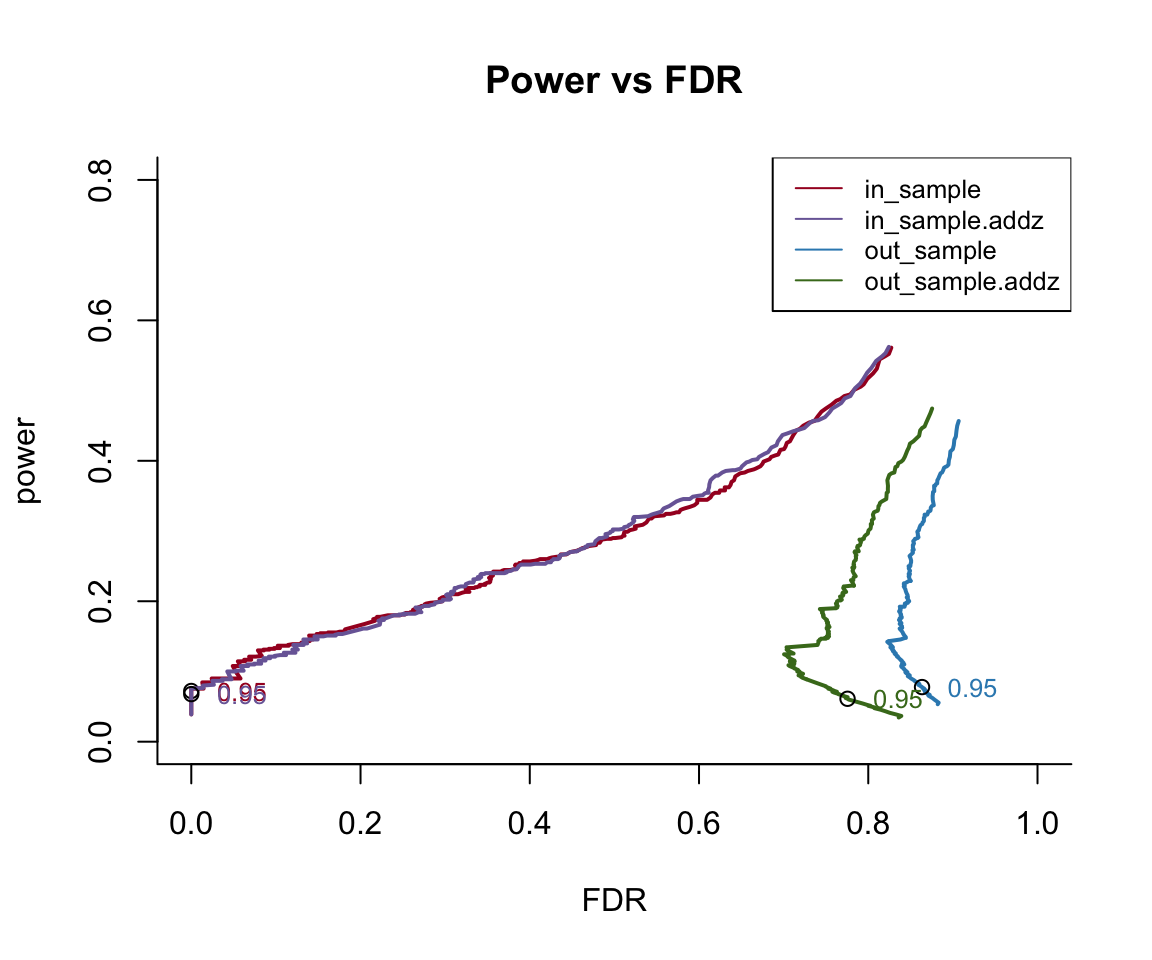
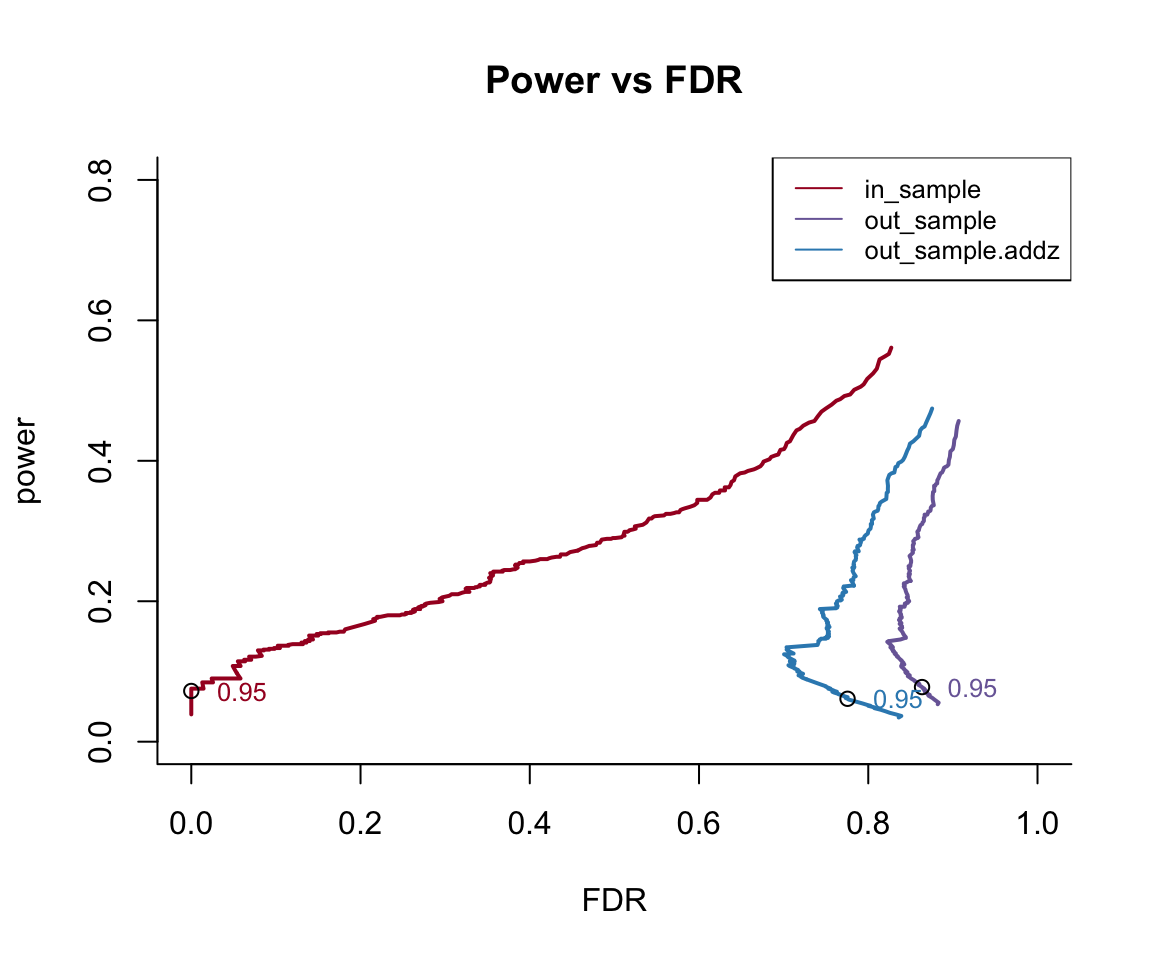
Build site.

diff --git a/docs/r_compare_add_z_lambda_caviar_FINEMAP_ROC.html b/docs/r_compare_add_z_lambda_caviar_FINEMAP_ROC.html
@@ -456,7 +456,7 @@ div.section {
 <div class="tab-content">
 <div id="summary" class="tab-pane fade in active">
 <p>
-<strong>Last updated:</strong> 2019-05-06
+<strong>Last updated:</strong> 2019-05-07
 </p>
 <p>
 <strong>Checks:</strong> <span class="glyphicon glyphicon-ok text-success" aria-hidden="true"></span> 6 <span class="glyphicon glyphicon-exclamation-sign text-danger" aria-hidden="true"></span> 0
@@ -535,10 +535,10 @@ This reproducible <a href="http://rmarkdown.rstudio.com">R Markdown</a> analysis
 <div class="panel panel-default">
 <div class="panel-heading">
 <p class="panel-title">
-<a data-toggle="collapse" data-parent="#workflowr-checks" href="#strongRepositoryversionstrongahrefhttpsgithubcomzouyuxindscsusieztree592f7feadb70dfd0ce4be6cd524fcea77fbdde76targetblank592f7fea"> <span class="glyphicon glyphicon-ok text-success" aria-hidden="true"></span> <strong>Repository version:</strong> <a href="https://github.com/zouyuxin/dsc-susie-z/tree/592f7feadb70dfd0ce4be6cd524fcea77fbdde76" target="_blank">592f7fe</a> </a>
+<a data-toggle="collapse" data-parent="#workflowr-checks" href="#strongRepositoryversionstrongahrefhttpsgithubcomzouyuxindscsusieztree7344e26759b7bcba9568c688ab64e97b4104a6abtargetblank7344e26a"> <span class="glyphicon glyphicon-ok text-success" aria-hidden="true"></span> <strong>Repository version:</strong> <a href="https://github.com/zouyuxin/dsc-susie-z/tree/7344e26759b7bcba9568c688ab64e97b4104a6ab" target="_blank">7344e26</a> </a>
 </p>
 </div>
[2 lines of base64/hex data omitted]
 <div class="panel-body">
 <p>
 Great! You are using Git for version control. Tracking code development and connecting the code version to the results is critical for reproducibility. The version displayed above was the version of the Git repository at the time these results were generated. <br><br> Note that you need to be careful to ensure that all relevant files for the analysis have been committed to Git prior to generating the results (you can use <code>wflow_publish</code> or <code>wflow_git_commit</code>). workflowr only checks the R Markdown file, but you know if there are other scripts or data files that it depends on. Below is the status of the Git repository when the results were generated:
@@ -593,9 +593,16 @@ Untracked files:
     Untracked:  output/r_compare_add_z_lambda_SuSiErss_ROC.rds
     Untracked:  output/r_compare_add_z_lambda_caviar_CAVIAR_ROC.rds
     Untracked:  output/r_compare_add_z_lambda_caviar_FINEMAP_ROC.rds
+    Untracked:  output/r_compare_add_z_lambda_caviar_SuSiEb_L1_ROC.rds
+    Untracked:  output/r_compare_add_z_lambda_caviar_SuSiEb_L2_ROC.rds
+    Untracked:  output/r_compare_add_z_lambda_caviar_SuSiEb_L5_ROC.rds
+    Untracked:  output/r_compare_add_z_lambda_caviar_SuSiErss_L1_ROC.rds
+    Untracked:  output/r_compare_add_z_lambda_caviar_SuSiErss_L2_ROC.rds
+    Untracked:  output/r_compare_add_z_lambda_caviar_SuSiErss_L5_ROC.rds
     Untracked:  output/r_compare_add_z_lambda_caviar_dscout_caviar_tibble.rds
     Untracked:  output/r_compare_add_z_lambda_caviar_dscout_finemap_tibble.rds
     Untracked:  output/r_compare_add_z_lambda_caviar_dscout_susiebhat_tibble.rds
+    Untracked:  output/r_compare_add_z_lambda_caviar_dscout_susierss_tibble.rds
     Untracked:  output/r_compare_add_z_lambda_dscout_susie_finemap_tibble.rds
     Untracked:  output/r_compare_dscout_susie_finemappip_tibble.rds
     Untracked:  output/r_compare_dscout_susie_finemappip_truth_tibble.rds
@@ -614,6 +621,7 @@ Unstaged changes:
     Modified:   analysis/SuSiErssNotConverge.Rmd
     Modified:   analysis/SusieZPerformance.Rmd
     Modified:   analysis/SusieZPerformanceRE3.Rmd
+    Modified:   analysis/index.Rmd
     Modified:   output/dsc_susie_z_v_output.rds
 
 </code></pre>
@@ -653,6 +661,40 @@ Message
 </tr>
 </thead>
 <tbody>
+<tr>
+<td>
+Rmd
+</td>
+<td>
+<a href="https://github.com/zouyuxin/dsc-susie-z/blob/7344e26759b7bcba9568c688ab64e97b4104a6ab/analysis/r_compare_add_z_lambda_caviar_FINEMAP_ROC.Rmd" target="_blank">7344e26</a>
+</td>
+<td>
+zouyuxin
+</td>
+<td>
+2019-05-07
+</td>
+<td>
+wflow_publish(“analysis/r_compare_add_z_lambda_caviar_FINEMAP_ROC.Rmd”)
+</td>
+</tr>
+<tr>
+<td>
+html
+</td>
+<td>
+<a href="https://rawcdn.githack.com/zouyuxin/dsc-susie-z/1315bdf5fee81eaafa69be1a75bf6b634a70970f/docs/r_compare_add_z_lambda_caviar_FINEMAP_ROC.html" target="_blank">1315bdf</a>
+</td>
+<td>
+zouyuxin
+</td>
+<td>
+2019-05-06
+</td>
+<td>
+Build site.
+</td>
+</tr>
 <tr>
 <td>
 Rmd
@@ -752,15 +794,53 @@ for(Rtype in names(pip_cali)){
 <h3>Calibrated PIP</h3>
 <pre class="r"><code>g = list()
 idx = 0
-for(Rtype in names(pip_cali)){
+name = names(pip_cali)[!grepl(&#39;in_sample.addz&#39;, names(pip_cali))]
+for(Rtype in name){
   idx = idx + 1
   pip_cali[[Rtype]][,3] = sqrt(pip_cali[[Rtype]][,2] * (1 - pip_cali[[Rtype]][,2]) / pip_cali[[Rtype]][,3]) * 2
   pip_cali[[Rtype]] = as.data.frame(pip_cali[[Rtype]])
   colnames(pip_cali[[Rtype]]) = c(&quot;mean_pip&quot;, &quot;observed_freq&quot;, &quot;se&quot;)
   g[[Rtype]] = dot_plot(pip_cali[[Rtype]]) + ggtitle(Rtype)
 }
-grid.arrange(g[[1]], g[[2]], g[[3]], g[[4]], nrow = 2)</code></pre>
-<p><img src="figure/r_compare_add_z_lambda_caviar_FINEMAP_ROC.Rmd/unnamed-chunk-7-1.png" width="960" style="display: block; margin: auto;" /></p>
+grid.arrange(g[[1]], g[[2]], g[[3]], nrow = 1)</code></pre>
+<p><img src="figure/r_compare_add_z_lambda_caviar_FINEMAP_ROC.Rmd/unnamed-chunk-7-1.png" width="1440" style="display: block; margin: auto;" /></p>
+<p>
+<button type="button" class="btn btn-default btn-xs btn-workflowr btn-workflowr-fig" data-toggle="collapse" data-target="#fig-unnamed-chunk-7-1">
+Past versions of unnamed-chunk-7-1.png
+</button>
+</p>
+<div id="fig-unnamed-chunk-7-1" class="collapse">
+<div class="table-responsive">
+<table class="table table-condensed table-hover">
+<thead>
+<tr>
+<th>
+Version
+</th>
+<th>
+Author
+</th>
+<th>
+Date
+</th>
+</tr>
+</thead>
+<tbody>
+<tr>
+<td>
+<a href="https://github.com/zouyuxin/dsc-susie-z/blob/1315bdf5fee81eaafa69be1a75bf6b634a70970f/docs/figure/r_compare_add_z_lambda_caviar_FINEMAP_ROC.Rmd/unnamed-chunk-7-1.png" target="_blank">1315bdf</a>
+</td>
+<td>
+zouyuxin
+</td>
+<td>
+2019-05-06
+</td>
+</tr>
+</tbody>
+</table>
+</div>
+</div>
 </div>
 <div id="power-vs-fdr" class="section level3">
 <h3>Power vs FDR</h3>
@@ -828,7 +908,8 @@ add_text = function(thresholds,x,y,threshold,color,delta = -0.06) {
 }
 labels = vector()
 i = 1
-for (method in names(roc)) {
+name = names(roc)[!grepl(&#39;in_sample.addz&#39;, names(roc))]
+for (method in name) {
   yy = make_smooth(1 - roc[[method]]$rates$Precision, roc[[method]]$rates$Recall)
   if (i == 1) {
     plot(yy$x, yy$y, t=&quot;l&quot;, col=colors[i], ylab = &quot;power&quot;, xlab =&quot;FDR&quot;, main = &#39;Power vs FDR&#39;, bty=&#39;l&#39;, lwd = 2, xlim = c(0,1), ylim = c(0,0.8))
@@ -842,6 +923,43 @@ for (method in names(roc)) {
 }
 legend(&quot;topright&quot;, legend=labels, col=colors[1:i], lty=c(1,1,1), cex=0.8)</code></pre>
 <p><img src="figure/r_compare_add_z_lambda_caviar_FINEMAP_ROC.Rmd/unnamed-chunk-9-1.png" width="576" style="display: block; margin: auto;" /></p>
+<p>
+<button type="button" class="btn btn-default btn-xs btn-workflowr btn-workflowr-fig" data-toggle="collapse" data-target="#fig-unnamed-chunk-9-1">
+Past versions of unnamed-chunk-9-1.png
+</button>
+</p>
+<div id="fig-unnamed-chunk-9-1" class="collapse">
+<div class="table-responsive">
+<table class="table table-condensed table-hover">
+<thead>
+<tr>
+<th>
+Version
+</th>
+<th>
+Author
+</th>
+<th>
+Date
+</th>
+</tr>
+</thead>
+<tbody>
+<tr>
+<td>
+<a href="https://github.com/zouyuxin/dsc-susie-z/blob/1315bdf5fee81eaafa69be1a75bf6b634a70970f/docs/figure/r_compare_add_z_lambda_caviar_FINEMAP_ROC.Rmd/unnamed-chunk-9-1.png" target="_blank">1315bdf</a>
+</td>
+<td>
+zouyuxin
+</td>
+<td>
+2019-05-06
+</td>
+</tr>
+</tbody>
+</table>
+</div>
+</div>
 </div>
 <div id="roc" class="section level3">
 <h3>ROC</h3>
@@ -855,7 +973,8 @@ for (method in names(roc)) {
 roc = tmp</code></pre>
 <pre class="r"><code>labels = vector()
 i = 1
-for (method in names(roc)) {
+name = names(roc)[!grepl(&#39;in_sample.addz&#39;, names(roc))]
+for (method in name) {
   yy = make_smooth(roc[[method]]$FPR, roc[[method]]$TPR)
   if (i == 1) {
     plot(yy$x, yy$y, t=&quot;l&quot;, col=colors[i], ylab = &quot;True Positive Rate&quot;, xlab =&quot;False Positive Rate&quot;, main = &#39;ROC&#39;, bty=&#39;l&#39;, lwd = 3, xlim = c(0,0.005), ylim = c(0,0.6))
@@ -869,6 +988,43 @@ for (method in names(roc)) {
 }
 legend(&quot;bottomright&quot;, legend=labels, col=colors[1:i], lty=rep(1, i), cex=0.8, lwd=rep(3, i))</code></pre>
 <p><img src="figure/r_compare_add_z_lambda_caviar_FINEMAP_ROC.Rmd/unnamed-chunk-11-1.png" width="576" style="display: block; margin: auto;" /></p>
+<p>
+<button type="button" class="btn btn-default btn-xs btn-workflowr btn-workflowr-fig" data-toggle="collapse" data-target="#fig-unnamed-chunk-11-1">
+Past versions of unnamed-chunk-11-1.png
+</button>
+</p>
+<div id="fig-unnamed-chunk-11-1" class="collapse">
+<div class="table-responsive">
+<table class="table table-condensed table-hover">
+<thead>
+<tr>
+<th>
+Version
+</th>
+<th>
+Author
+</th>
+<th>
+Date
+</th>
+</tr>
+</thead>
+<tbody>
+<tr>
+<td>
+<a href="https://github.com/zouyuxin/dsc-susie-z/blob/1315bdf5fee81eaafa69be1a75bf6b634a70970f/docs/figure/r_compare_add_z_lambda_caviar_FINEMAP_ROC.Rmd/unnamed-chunk-11-1.png" target="_blank">1315bdf</a>
+</td>
+<td>
+zouyuxin
+</td>
+<td>
+2019-05-06
+</td>
+</tr>
+</tbody>
+</table>
+</div>
+</div>
 <br>
 <p>
 <button type="button" class="btn btn-default btn-workflowr btn-workflowr-sessioninfo" data-toggle="collapse" data-target="#workflowr-sessioninfo" style="display: block;">
